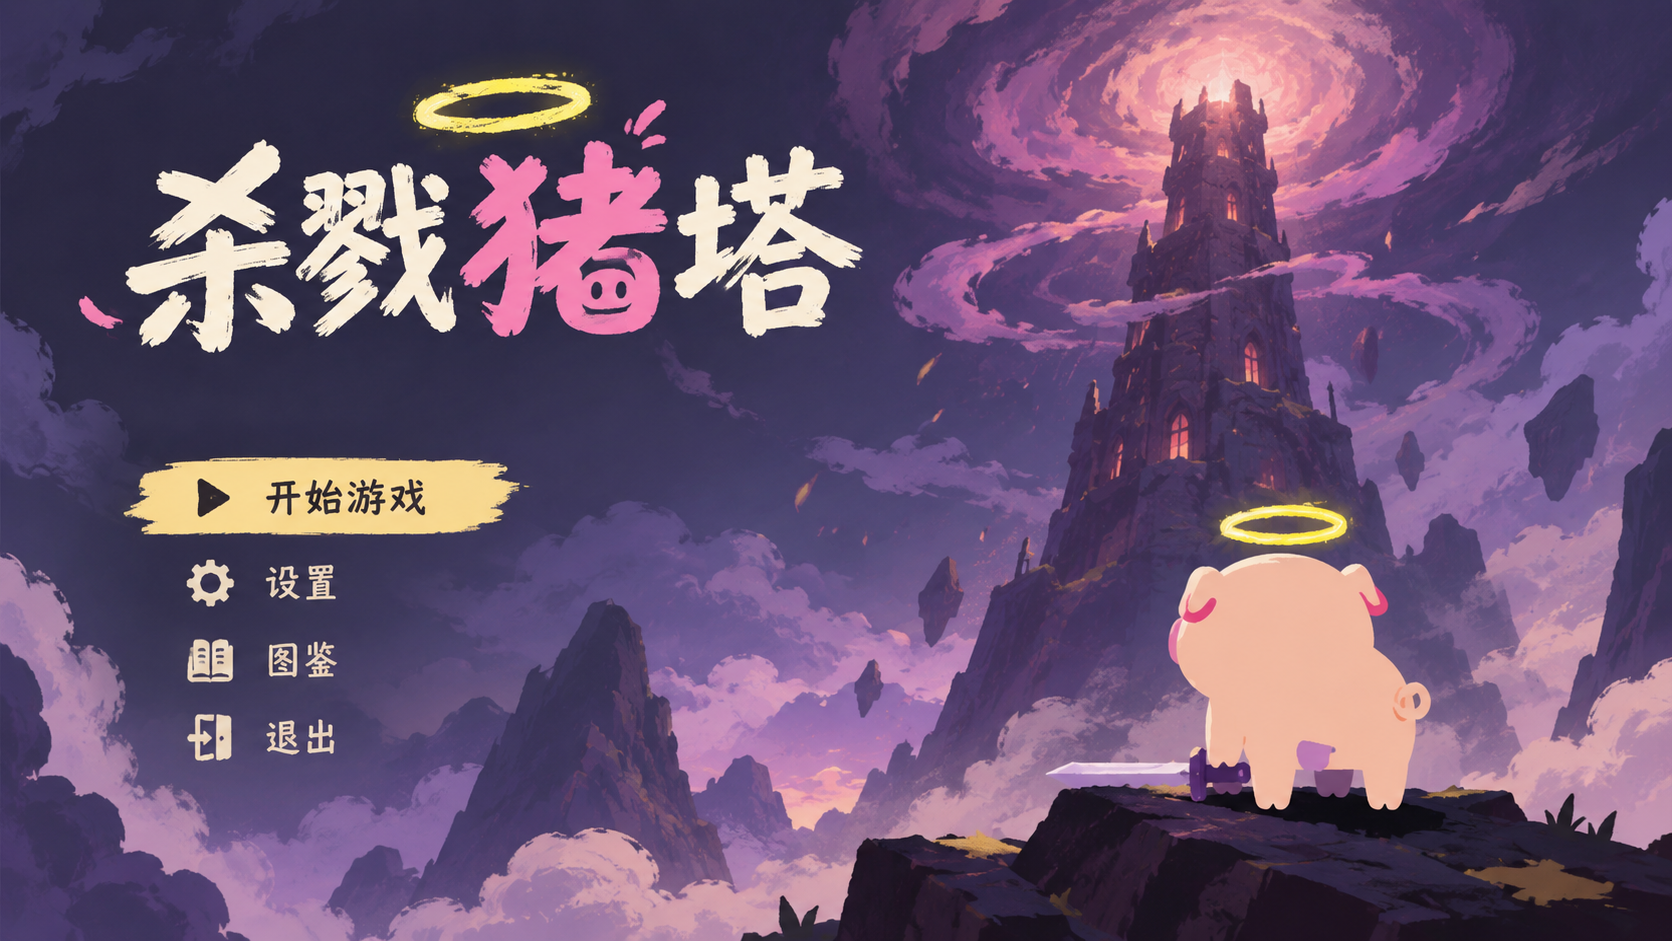
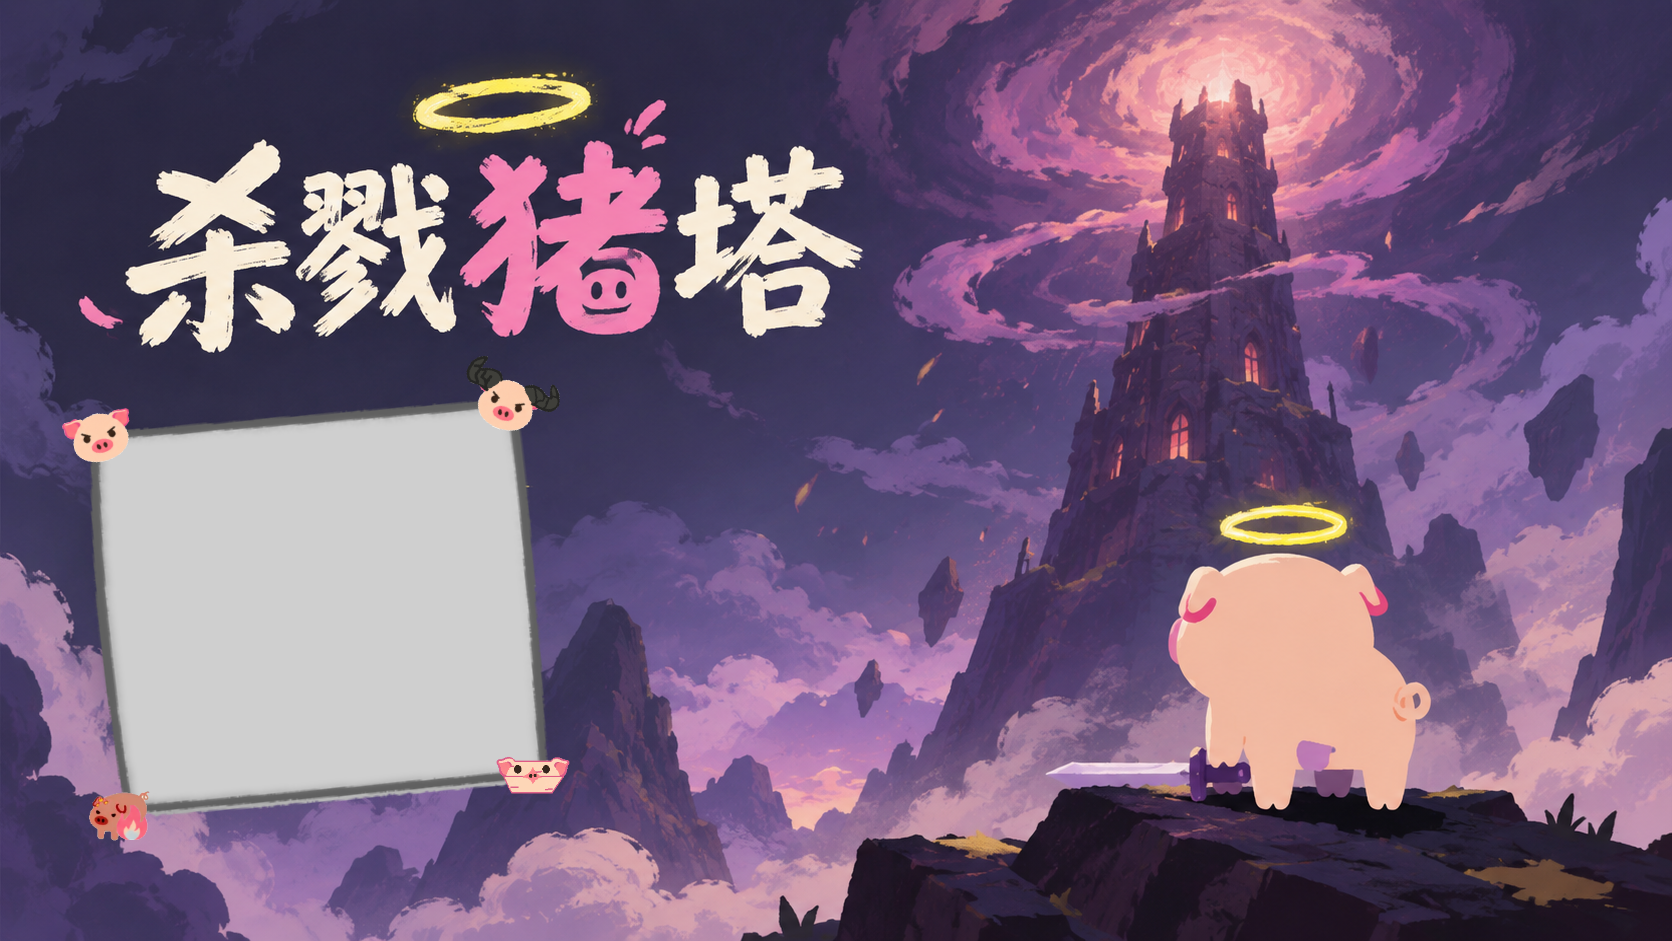
地图加载动画，战斗背景，角色立绘动画，特殊节点概率修改

Changed region(s): [[0.0311, 0.3698, 0.3421, 0.8937]]

diff --git a/src/main/java/com/example/demo/BattleView.java b/src/main/java/com/example/demo/BattleView.java
@@ -1,8 +1,12 @@
 package com.example.demo;
 
+import javafx.animation.AnimationTimer;
+import javafx.animation.KeyFrame;
+import javafx.animation.KeyValue;
 import javafx.animation.ParallelTransition;
 import javafx.animation.PauseTransition;
 import javafx.animation.RotateTransition;
+import javafx.animation.Timeline;
 import javafx.animation.TranslateTransition;
 import javafx.geometry.Insets;
 import javafx.geometry.Pos;
@@ -11,6 +15,13 @@ import javafx.scene.control.Button;
 import javafx.scene.control.Label;
 import javafx.scene.control.ScrollPane;
 import javafx.scene.control.Tooltip;
+import javafx.scene.image.Image;
+import javafx.scene.image.ImageView;
+import javafx.scene.layout.Background;
+import javafx.scene.layout.BackgroundImage;
+import javafx.scene.layout.BackgroundPosition;
+import javafx.scene.layout.BackgroundRepeat;
+import javafx.scene.layout.BackgroundSize;
 import javafx.scene.layout.BorderPane;
 import javafx.scene.layout.FlowPane;
 import javafx.scene.layout.HBox;
@@ -19,6 +30,7 @@ import javafx.scene.layout.Region;
 import javafx.scene.layout.StackPane;
 import javafx.scene.layout.VBox;
 import javafx.scene.paint.Color;
+import javafx.scene.shape.Ellipse;
 import javafx.scene.text.Font;
 import javafx.util.Duration;
 
@@ -60,6 +72,10 @@ public class BattleView extends StackPane {
     private boolean battleOver = false;
     private boolean paused = false;            // 切去只读地图时暂停，防止后台偷偷行动
     private boolean pendingTurnStart = false;  // 暂停期间错过的“下一回合开始”
+    // ===== 角色局内动画 =====
+    private AnimationTimer idleBreath;   // 待机呼吸
+    private TranslateTransition attackAnim; // 攻击突进
+    private Timeline hurtAnim;           // 受击抖动
 
     // ================= UI =================
     // 角色(左)
@@ -102,19 +118,34 @@ public class BattleView extends StackPane {
     private final HBox rewardBox = new HBox(16);
     private boolean rewardChosen = false;
     // 死亡演出
-    private StackPane playerPortrait;                 // 角色立绘（倒地动画）
+    private StackPane playerPortrait;                 // 角色立绘（仍在左列内）
+    private StackPane enemyPortrait;                  // 怪物立绘（仍在右列内）
+    private VBox leftCol;                            // 左侧整列（随角色一起平移对齐地面）
+    private VBox rightCol;                           // 右侧整列
+    private final Ellipse playerShadow = new Ellipse(); // 脚底阴影
+    private final Ellipse enemyShadow = new Ellipse();
     private final Pane deadDim = new Pane();          // 背景变暗层（在内容下层，角色/怪物保持高亮）
     private final StackPane deathOverlay = new StackPane(); // 死亡提示页
     private boolean diedShown = false;
 
-    public BattleView(Player player, RunHud hud, Enemy enemy, Consumer<Boolean> onFinish) {
+    private Image battleBg;
+    private final ImageView bgView = new ImageView(); // 自绘背景（可缩放/裁切/偏移）
+    private static final double GROUND_IMG_Y = 594;   // 背景图上“地面线”的行号（原图坐标）
+
+    public BattleView(Player player, RunHud hud, Enemy enemy, Consumer<Boolean> onFinish,
+                      boolean bossBattle) {
         this.player = player;
         this.hud = hud;
         this.enemy = enemy;
         this.onFinish = onFinish;
 
-        // 整层背景（以后换战斗背景图）
-        setStyle("-fx-background-color: linear-gradient(to bottom, #191511, #23201c);");
+        // 战斗背景：BOSS 战用 boss.png，普通/精英用 default.png（cover 全屏铺满）
+        battleBg = loadImage(bossBattle ? "icons/boss.png" : "icons/default.png");
+        if (battleBg != null) {
+            setBackground(makeCoverBackground(battleBg));
+        } else {
+            setStyle("-fx-background-color: linear-gradient(to bottom, #191511, #23201c);");
+        }
 
         // 背景变暗层：默认隐藏，死亡时点亮（它在内容层下面 → 只有背景暗、角色怪物亮）
         deadDim.setStyle("-fx-background-color: rgba(2, 6, 23, 0.5);");
@@ -128,15 +159,23 @@ public class BattleView extends StackPane {
         HBox fighters = new HBox(10);
         fighters.setAlignment(Pos.CENTER);
 
-        VBox left = buildLeftPanel();   // 角色
+        VBox left = buildLeftPanel();   // 角色（整列会整体对齐地面）
+        leftCol = left;
         VBox middle = buildMiddlePanel(); // 能量 / 结束回合
         VBox right = buildRightPanel();  // 怪物
+        rightCol = right;
         fighters.getChildren().addAll(left, middle, right);
         main.setCenter(fighters);
 
         // ---- 底部：手牌区 ----
         main.setBottom(buildHandPanel());
         main.setPadding(new Insets(8, 10, 8, 10));
+
+//        // 脚底阴影先入层（垫在 main 下面，立绘/血条都在其上）
+//        addStageFigures();
+//        widthProperty().addListener(o -> anchorStageFigures());
+//        heightProperty().addListener(o -> anchorStageFigures());
+//        javafx.application.Platform.runLater(this::anchorStageFigures);
 
         // 主布局（本类就是 StackPane，子元素叠放、可拉伸的自动铺满）
         getChildren().add(main);
@@ -197,7 +236,65 @@ public class BattleView extends StackPane {
             player.heal(10);
             hud.refresh();
         }
+        startIdleBreath(); // 待机呼吸动画
         startPlayerTurn();
+    }
+
+    // ================= 角色局内动画（变换模拟动作） =================
+
+    /** 待机：上下呼吸 + 轻微摇摆（离开战斗前要 stop） */
+    private void startIdleBreath() {
+        if (idleBreath != null) return;
+        idleBreath = new AnimationTimer() {
+            private long t0 = -1;
+            @Override
+            public void handle(long now) {
+                if (paused || battleOver) return; // 暂停/结束就停着
+                if (t0 < 0) t0 = now;
+                double s = (now - t0) / 1_000_000_000.0;
+                playerPortrait.setTranslateY(Math.sin(s * 2.2) * 5);
+                playerPortrait.setRotate(Math.sin(s * 2.2) * 1.2);
+            }
+        };
+        idleBreath.start();
+    }
+
+    private void stopIdleBreath(boolean reset) {
+        if (idleBreath != null) {
+            idleBreath.stop();
+            idleBreath = null;
+        }
+        if (reset && playerPortrait != null) {
+            playerPortrait.setTranslateX(0);
+            playerPortrait.setTranslateY(0);
+            playerPortrait.setRotate(0);
+        }
+    }
+
+    /** 打出攻击牌：角色向右突进再弹回来 */
+    private void animateAttack() {
+        if (playerPortrait == null || battleOver) return;
+        if (attackAnim != null) attackAnim.stop();
+        attackAnim = new TranslateTransition(Duration.millis(130), playerPortrait);
+        attackAnim.setFromX(playerPortrait.getTranslateX());
+        attackAnim.setToX(90);
+        attackAnim.setAutoReverse(true);
+        attackAnim.setCycleCount(2);
+        attackAnim.play();
+    }
+
+    /** 受到伤害：短促左右抖动 */
+    private void animateHurt() {
+        if (playerPortrait == null || battleOver) return;
+        if (hurtAnim != null) hurtAnim.stop();
+        double base = playerPortrait.getTranslateX();
+        hurtAnim = new Timeline(
+                new KeyFrame(Duration.ZERO, new KeyValue(playerPortrait.translateXProperty(), base)),
+                new KeyFrame(Duration.millis(60), new KeyValue(playerPortrait.translateXProperty(), base - 12)),
+                new KeyFrame(Duration.millis(120), new KeyValue(playerPortrait.translateXProperty(), base + 10)),
+                new KeyFrame(Duration.millis(200), new KeyValue(playerPortrait.translateXProperty(), base))
+        );
+        hurtAnim.play();
     }
 
     /** 检查玩家是否持有某个遗物（遗物效果都靠它触发） */
@@ -207,6 +304,60 @@ public class BattleView extends StackPane {
         }
         return false;
     }
+
+    // ================= 战斗舞台：背景 + 立绘脚底对齐地面线 + 阴影 =================
+
+    private static Image loadImage(String path) {
+        var in = BattleView.class.getResourceAsStream(path);
+        return in == null ? null : new Image(in);
+    }
+
+    /** 背景用 cover（等比铺满、居中裁边）铺在战斗层 */
+    private static Background makeCoverBackground(Image image) {
+        BackgroundImage bi = new BackgroundImage(
+                image,
+                BackgroundRepeat.NO_REPEAT,
+                BackgroundRepeat.NO_REPEAT,
+                BackgroundPosition.CENTER,
+                new BackgroundSize(1, 1, true, true, false, true) // cover
+        );
+        return new Background(bi);
+    }
+
+    /** 把影子与立绘加到本层（立绘留在各自列里，整列平移对齐地面） */
+    private void addStageFigures() {
+        playerShadow.setRadiusX(78);
+        playerShadow.setRadiusY(13);
+        playerShadow.setFill(Color.rgb(0, 0, 0, 0.42));
+        playerShadow.setMouseTransparent(true);
+        enemyShadow.setRadiusX(78);
+        enemyShadow.setRadiusY(13);
+        enemyShadow.setFill(Color.rgb(0, 0, 0, 0.42));
+        enemyShadow.setMouseTransparent(true);
+        getChildren().addAll(playerShadow, enemyShadow);
+//        anchorStageFigures();
+    }
+
+    /**
+     * 立绘保持在“加背景前”的原始居中布局里（不做任何位移）；
+     * 背景由 Region cover 全屏显示；这里只负责把阴影贴到立绘脚底。
+     */
+//    private void anchorStageFigures() {
+//        if (leftCol == null || rightCol == null || playerPortrait == null || enemyPortrait == null) {
+//            return;
+//        }
+//        alignShadow(leftCol, playerPortrait, playerShadow);
+//        alignShadow(rightCol, enemyPortrait, enemyShadow);
+//    }
+//
+//    /** 只摆放阴影：贴住立绘画布底沿，稍微上收以便盖住图内可能的透明留白 */
+//    private void alignShadow(VBox col, StackPane art, Ellipse shadow) {
+//        javafx.geometry.Point2D origin = localToScene(0, 0);
+//        double lift = 18; // 阴影相对画布底边往上收的像素（图有留白就调大）
+//        javafx.geometry.Point2D c = art.localToScene(art.getWidth() / 2, art.getHeight() - lift);
+//        shadow.setCenterX(c.getX() - origin.getX());
+//        shadow.setCenterY(c.getY() - origin.getY());
+//    }
 
     // ================= 面板搭建 =================
 
@@ -220,10 +371,16 @@ public class BattleView extends StackPane {
         pName.setFont(Font.font(26));
         pName.setStyle("-fx-font-weight: bold;");
 
-        playerPortrait = portrait("战",
-                "radial-gradient(center 35% 30%, radius 100%, #b45309, #451a03);");
+        playerPortrait = new StackPane(); // 用 char.png 作为角色立绘
         playerPortrait.setPrefSize(210, 210);
         playerPortrait.setMaxSize(210, 210);
+        ImageView pImg = new ImageView(new Image(
+                BattleView.class.getResourceAsStream("icons/char.png")));
+        pImg.setPreserveRatio(true);
+        pImg.setFitWidth(210);
+        pImg.setFitHeight(210);
+        pImg.setMouseTransparent(true);
+        playerPortrait.getChildren().add(pImg);
 
         // 血条（数字/数字 写在条上）
         hpWrap(pHpWrap, pHpFill, pHpText, 240, "#22c55e");
@@ -267,11 +424,6 @@ public class BattleView extends StackPane {
         intentRow.setAlignment(Pos.CENTER);
         intentRow.getChildren().addAll(eIntentIcon, eIntentNum);
 
-        StackPane portrait = portrait(enemy.name.substring(0, 1),
-                "radial-gradient(center 35% 30%, radius 100%, #6b7280, #1f2937);");
-        portrait.setPrefSize(210, 210);
-        portrait.setMaxSize(210, 210);
-
         hpWrap(eHpWrap, eHpFill, eHpText, 240, "#dc2626");
         eShieldNum.setTextFill(Color.WHITE);
         eShieldNum.setFont(Font.font(13));
@@ -286,7 +438,13 @@ public class BattleView extends StackPane {
         eChips.setPrefWrapLength(286);
         eChips.setAlignment(Pos.CENTER_LEFT);
 
-        box.getChildren().addAll(eName, intentRow, portrait, cluster, eChips);
+        // 怪物立绘（保留在右列内，整列随后对齐地面）
+        enemyPortrait = portrait(enemy.name.substring(0, 1),
+                "radial-gradient(center 35% 30%, radius 100%, #6b7280, #1f2937);");
+        enemyPortrait.setPrefSize(210, 210);
+        enemyPortrait.setMaxSize(210, 210);
+
+        box.getChildren().addAll(eName, intentRow, enemyPortrait, cluster, eChips);
         return box;
     }
 
@@ -656,6 +814,7 @@ public class BattleView extends StackPane {
                 damageEnemy(dmg);
                 if (battleOver) break;
             }
+            if (!battleOver) animateAttack(); // 攻击动画：突进挥一下
         }
         if (c.kind == Card.Kind.BASH) {
             enemyVulnerable += 2; // 痛击：给敌人 2 层易伤
@@ -669,6 +828,7 @@ public class BattleView extends StackPane {
         if (c.kind == Card.Kind.BLEED) {
             energy += 2; // 放血：获得 2 点能量
             player.damage(3); // 自己失去 3 点生命
+            animateHurt(); // 自伤受击抖动
             hud.refresh();
             if (player.hp() == 0) { playerDied(); return; }
         }
@@ -677,6 +837,7 @@ public class BattleView extends StackPane {
         }
         if (c.kind == Card.Kind.OFFERING) {
             player.damage(6); // 祭品：自己失去 6 点生命
+            animateHurt(); // 自伤受击抖动
             energy += 2; // 获得 2 点能量
             hud.refresh();
             if (player.hp() == 0) { playerDied(); return; }
@@ -733,6 +894,7 @@ public class BattleView extends StackPane {
                     dmg -= absorb;
                 }
                 player.damage(dmg);
+                animateHurt(); // 玩家受击抖动
                 hud.refresh();
                 if (player.hp() == 0) { playerDied(); return; }
             }
@@ -771,6 +933,7 @@ public class BattleView extends StackPane {
     private void victory() {
         if (battleOver) return;
         battleOver = true;
+        stopIdleBreath(true); // 停待机，避免后台空转
         showReward();
     }
 
@@ -779,6 +942,7 @@ public class BattleView extends StackPane {
         if (diedShown) return;
         diedShown = true;
         battleOver = true;
+        stopIdleBreath(true); // 停掉待机呼吸，复位后再播倒地动画
 
         deadDim.setVisible(true); // 背景变暗，角色和怪物保持高亮（它在内容层下面）
 

diff --git a/src/main/java/com/example/demo/GameMap.java b/src/main/java/com/example/demo/GameMap.java
@@ -154,20 +154,20 @@ public class GameMap {
         int roll = rnd.nextInt(100);
 
         // 休息：只在过了山脚段出现，且不能被禁用（防连续）
-        if (row >= MIN_REST_ROW && roll < 8 && !banRest) return NodeType.REST;
+        if (row >= MIN_REST_ROW && roll < 15 && !banRest) return NodeType.REST;
 
         // 事件：频率提高 —— 早段(还没休息) 25%，之后 22%
         if (row < MIN_REST_ROW) {
-            if (roll < 25) return NodeType.EVENT;
+            if (roll < 45) return NodeType.EVENT;
             return NodeType.MONSTER; // 山脚只出怪/事件
         }
         if (roll < 30) return NodeType.EVENT;
 
-        if (row < TREASURE_ROW) return NodeType.MONSTER;  // 宝箱之前纯普通怪
+        if (row < 5) return NodeType.MONSTER;  // 宝箱之前纯普通怪
 
-        // 宝箱之后：精英概率随楼层逐渐提高
-        int eliteChance = 20 + (row - TREASURE_ROW - 1) * 5; // 20% → 45%
-        eliteChance = Math.min(45, eliteChance);
+        // 精英概率随楼层逐渐提高
+        int eliteChance = (row)*6; // 20% → 45%
+        eliteChance = Math.min(50, eliteChance);
         if (rnd.nextInt(100) >= eliteChance || banElite) return NodeType.MONSTER;
         return NodeType.ELITE;
     }

diff --git a/src/main/java/com/example/demo/HelloApplication.java b/src/main/java/com/example/demo/HelloApplication.java
@@ -226,7 +226,8 @@ public class HelloApplication extends Application {
                              GameMap.NodeType type, Enemy enemy) {
         RunHud hud = buildHud(player, map, () -> openBattleMapReadOnly(stage, map), true);
 
-        BattleView battle = new BattleView(player, hud, enemy, won -> {
+        BattleView battle = new BattleView(player, hud, enemy,
+                won -> {
             activeBattle = null;
             battleMapOpen = false;
             if (won) {
@@ -238,7 +239,7 @@ public class HelloApplication extends Application {
             } else {
                 returnToMenu(stage);     // 阵亡
             }
-        });
+        }, type == GameMap.NodeType.BOSS); // true=用 boss 战斗背景，否则 default 背景
         activeBattle = battle;
 
         BorderPane content = new BorderPane();
